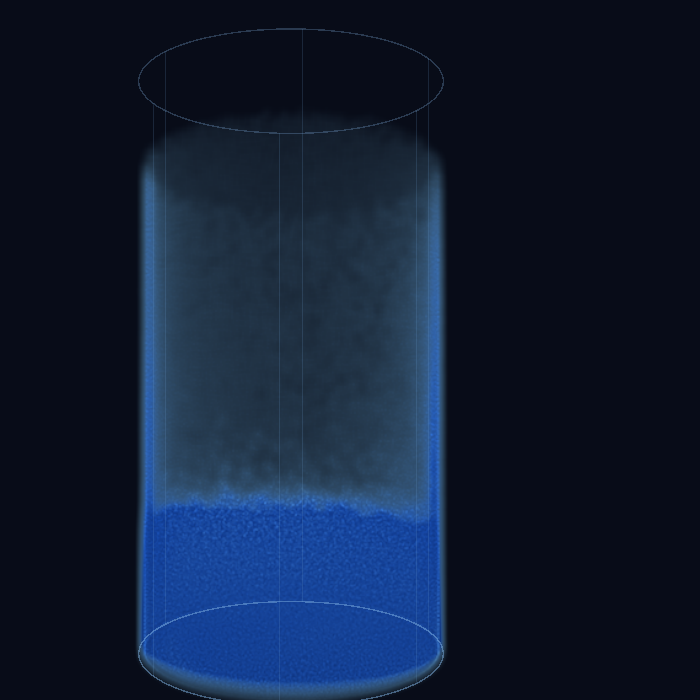
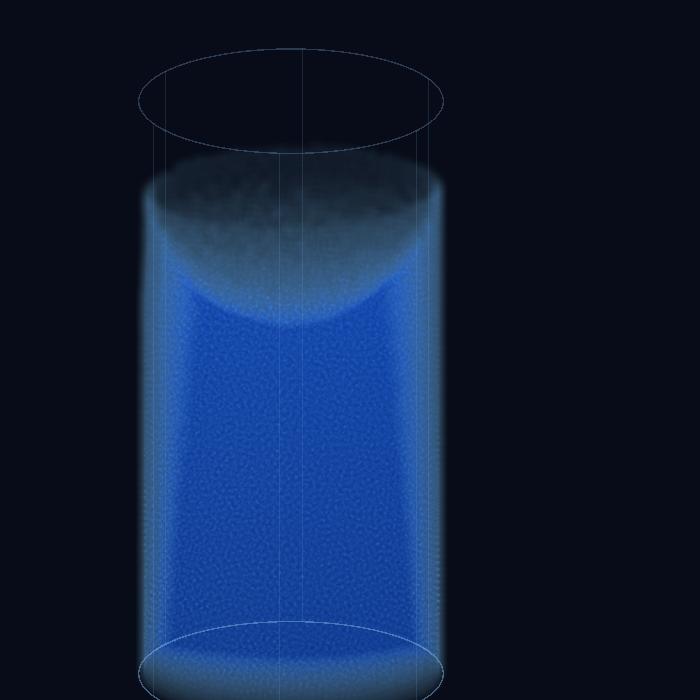
feat(cup): real-scale WCSPH - gravity 9.81, Tait equation, mass density
The physics was fake in two ways at once. Gravity was -2.2 in a world where the glass is 1.2 units tall, so water fell at a fifth of a g and the eye immediately reads it as wrong; and the pressure model was a linear over-density term with unit mass, which is not an equation of state. Now the sim is standard weakly compressible SPH at the scale the geometry implies: gravity -9.81, mass 1000*dx^3, density from the poly6 kernel, Tait pressure p = B((rho/rho0)^7 - 1) clamped at zero, pressure forces in the symmetric -m(p_i/rho_i^2 + p_j/rho_j^2) grad W form with the spiky gradient, and viscosity through the Laplacian kernel. The timestep follows CFL, 5e-4 s, sixteen substeps per frame. Measured: mean density stays at 950-1000, the free surface settles at 1.02-1.05 against a fill height of 1.03, peak speed at rest is 1.6 m/s, and stirring now produces the concave dip of a real vortex rather than a flat disc. Wall and particle speeds are clamped because dragging the glass used to inject a 1e7 m/s spike.

diff --git a/apps/Physics/CupVortex.py b/apps/Physics/CupVortex.py
@@ -9,21 +9,28 @@ dim = 3
 
 # ==================== 参数 ====================
 N_PARTICLES = 90000
-R_CUP = 0.30                 # 细高的杯子，深径比 ≈ 3，涡旋才立得住
+R_CUP = 0.30                 # 世界单位；整只杯子当作 0.6 m 宽、1.2 m 高
 H_CUP = 1.20
-FILL = 0.86                  # 初始水柱高度 = FILL * H_CUP
-DX = 0.016                   # 初始粒子间距
-H = 0.032                    # 光滑核半径
-REP = 0.55                   # 排斥力
-VISC = 0.22                  # 粘性（原来 0.9 太黏，水全糊在壁上）
-KP = 5.0                     # 超压刚度
-DT = 1e-3
-GRAVITY = -2.2
-CELL = 1.0 / 33.0            # 邻居网格边长
-GXZ = 33                     # x/z 方向的网格数（覆盖 [-0.5, 0.5]）
-GY = int(1.25 / CELL) + 2     # y 方向足够高
+FILL = 0.86
+DX = 0.016                   # 粒子间距
+H = 0.032                    # 光滑核半径 = 2*DX
+GRAVITY = -9.81              # ← 真实重力，之前是 -2.2
+DT = 5e-4                    # 每个子步（CFL: 0.4*h/c_sound）
+SUBSTEPS_PER_FRAME = 16      # 每帧推进 8 ms 仿真时间
+RHO0 = 1000.0                # 水的密度
+MASS = RHO0 * DX ** 3        # 粒子质量
+STIFF_B = 2.0e4              # Tait 方程系数 p = B((rho/rho0)^7 - 1)
+MU = 0.06                    # 动力粘性
+CELL = 1.0 / 33.0
+GXZ = 33
+GY = int(1.25 / CELL) + 2
 MAX_PER_CELL = 32
-RHO0 = 9.0                   # 启动时自动标定
+
+# 核函数常数
+K_POLY6 = 315.0 / (64.0 * np.pi * H ** 9)
+K_SPIKY = -45.0 / (np.pi * H ** 6)
+K_LAP = 45.0 / (np.pi * H ** 6)
+
 RW, RH = 640, 620            # 渲染缓冲尺寸
 
 
@@ -39,6 +46,7 @@ class CupFluid:
         self.vel = ti.Vector.field(dim, real, n)
         self.acc = ti.Vector.field(dim, real, n)
         self.dens = ti.field(real, n)
+        self.pres = ti.field(real, n)
         self.cell_cnt = ti.field(ti.i32, GXZ * GXZ * GY)
         self.cell_idx = ti.field(ti.i32, (GXZ * GXZ * GY, MAX_PER_CELL))
         self.img = ti.Vector.field(3, real, (RH, RW))
@@ -60,11 +68,11 @@ class CupFluid:
         self.vel.fill(0.0)
         self._compile()
 
-        global RHO0
         self._clear_cells()
         self._bin()
         self._density()
-        RHO0 = float(self.dens.to_numpy().mean()) * 0.92
+        info = self.dens.to_numpy()
+        print(f"[sph] 初始密度 mean {info.mean():.1f} min {info.min():.1f} max {info.max():.1f}", flush=True)
 
     # ---------- 初始水柱 ----------
     def _make_points(self, n):
@@ -89,6 +97,7 @@ class CupFluid:
         n = self.n
         pos, vel, acc = self.pos, self.vel, self.acc
         dens = self.dens
+        pres = self.pres
         cnt, idx = self.cell_cnt, self.cell_idx
         cup_c, cup_v, cup_w = self.cup_c, self.cup_v, self.cup_w
         img = self.img
@@ -133,9 +142,13 @@ class CupFluid:
                                     j = idx[c, k]
                                     r2 = (pos[i] - pos[j]).norm_sqr()
                                     if r2 < H * H:
-                                        q = 1.0 - r2 / (H * H)
+                                        q = H * H - r2
                                         d += q * q * q
-                dens[i] = d
+                dens[i] = MASS * K_POLY6 * d
+                # Tait 方程，负压截断（避免拉在一起）
+                ratio = dens[i] / RHO0
+                p = STIFF_B * (ratio ** 7 - 1.0)
+                pres[i] = ti.max(p, 0.0)
 
         @ti.kernel
         def compute_forces():
@@ -144,12 +157,8 @@ class CupFluid:
                 gz = ti.min(ti.max(ti.cast((pos[i][2] + 0.5) / CELL, ti.i32), 0), GXZ - 1)
                 gy = ti.min(ti.max(ti.cast(pos[i][1] / CELL, ti.i32), 0), GY - 1)
                 f = ti.Vector([0.0, 0.0, 0.0])
-                # 类 Tait 方程：p = K((rho/rho0)^2 - 1)，压缩时二次增长，水才不可压
-                ratio = dens[i] / RHO0
-                over = ratio * ratio - 1.0
-                if over < 0.0:
-                    over = 0.0
-                stiff = REP + KP * over
+                pi_ = pres[i]
+                ri = dens[i]
                 for dx in ti.static(range(-1, 2)):
                     for dz in ti.static(range(-1, 2)):
                         for dy in ti.static(range(-1, 2)):
@@ -159,20 +168,26 @@ class CupFluid:
                                 m = ti.min(cnt[c], MAX_PER_CELL)
                                 for k in range(m):
                                     j = idx[c, k]
-                                    r = pos[i] - pos[j]
-                                    r2 = r.norm_sqr()
-                                    if 1e-9 < r2 < H * H:
-                                        d = ti.sqrt(r2)
-                                        q = 1.0 - d / H
-                                        f += stiff * q * q * (r / d)
-                                        f += VISC * (vel[j] - vel[i]) * q
+                                    r_vec = pos[i] - pos[j]
+                                    r2 = r_vec.norm_sqr()
+                                    if 1e-12 < r2 < H * H:
+                                        r = ti.sqrt(r2)
+                                        # 压力：spiky 梯度的标准对称形式
+                                        hq = H - r
+                                        wp = K_SPIKY * hq * hq / r * r_vec
+                                        coeff = -MASS * (pi_ / (ri * ri) + pres[j] / (dens[j] * dens[j]))
+                                        f += coeff * wp
+                                        # 粘性：拉普拉斯核
+                                        f += MU * MASS * (vel[j] - vel[i]) / dens[j] * (K_LAP * hq)
                 f[1] += GRAVITY
                 acc[i] = f
 
         @ti.kernel
         def integrate():
             c = cup_c[None]
-            cv = cup_v[None]
+            cv_raw = cup_v[None]
+            sp = cv_raw.norm()
+            cv = cv_raw * (4.0 / sp) if sp > 4.0 else cv_raw
             w = cup_w[None]
             for i in range(n):
                 vel[i] += DT * acc[i]
@@ -196,6 +211,10 @@ class CupFluid:
                 if p[1] > H_CUP:
                     p[1] = H_CUP
                     vel[i][1] = ti.min(vel[i][1], 0.0)
+                # 速度限幅，防止数值爆炸
+                spd = vel[i].norm()
+                if spd > 10.0:
+                    vel[i] *= 10.0 / spd
                 pos[i] = p
 
         # ---------- 屏幕空间流体渲染 ----------
@@ -289,7 +308,7 @@ class CupFluid:
         self._blur_v = blur_v
         self._shade = shade
 
-    def step(self, sub=6):
+    def step(self, sub=SUBSTEPS_PER_FRAME):
         for _ in range(sub):
             self._clear_cells()
             self._bin()
@@ -430,7 +449,7 @@ class CupVortexApp(QMainWindow):
         self.shaking = False
         self.shake_phase = 0.0
         self.shake_amp = 0.010
-        self.steps_per_frame = 6
+        self.steps_per_frame = SUBSTEPS_PER_FRAME
 
         self.init_ui()
         self.timer = QTimer()
